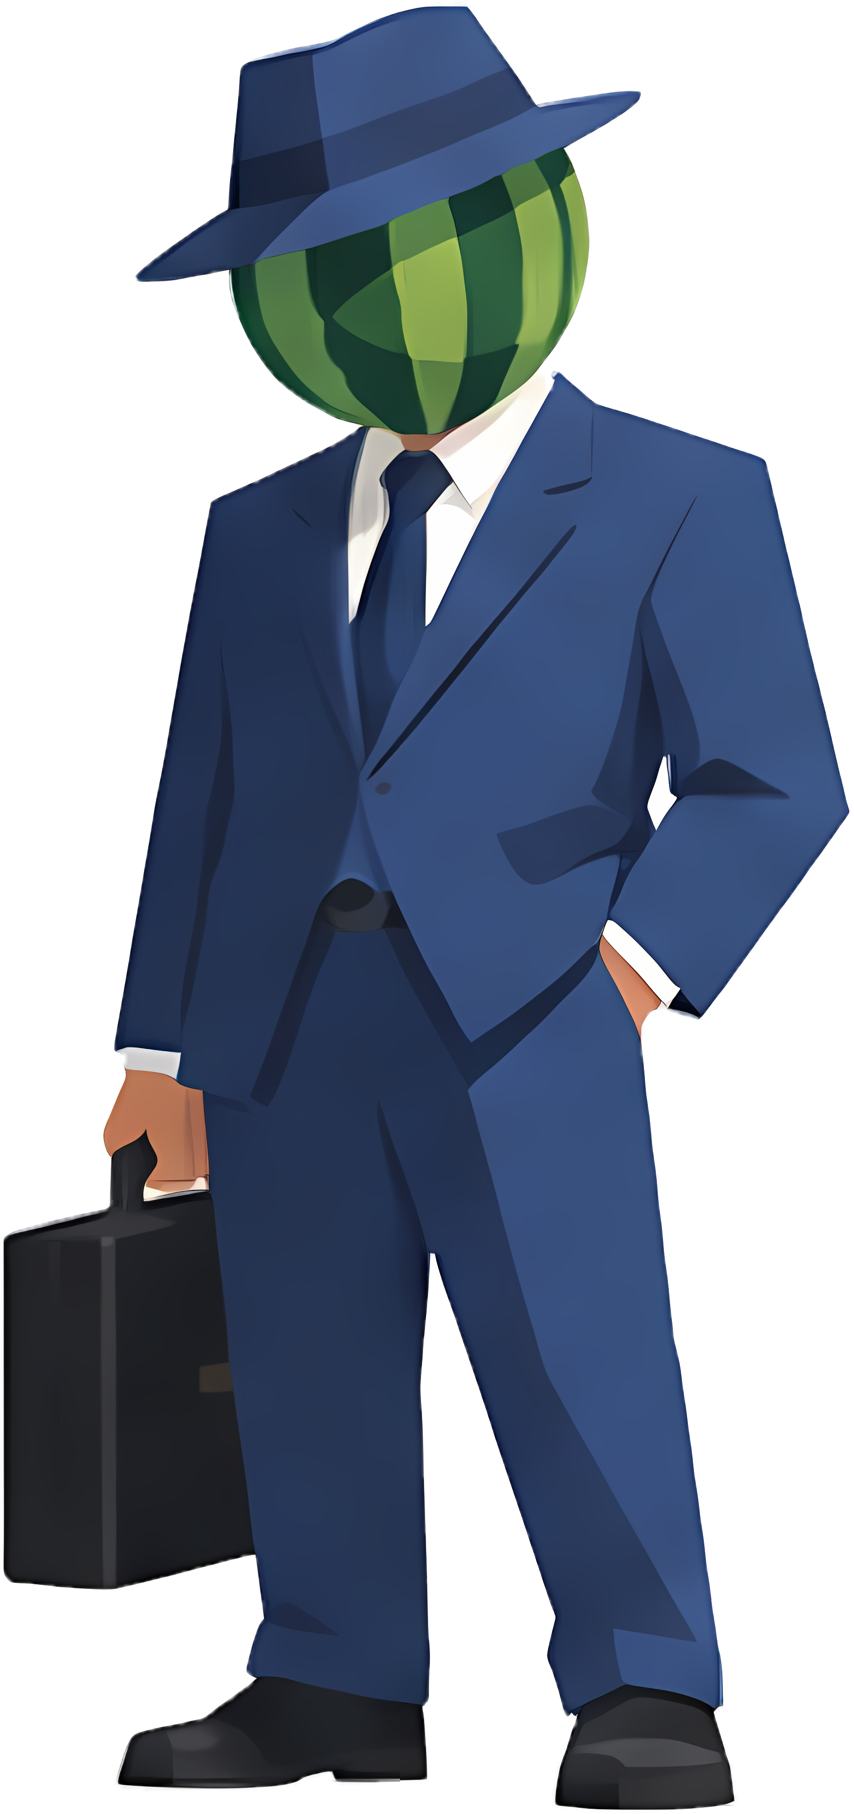
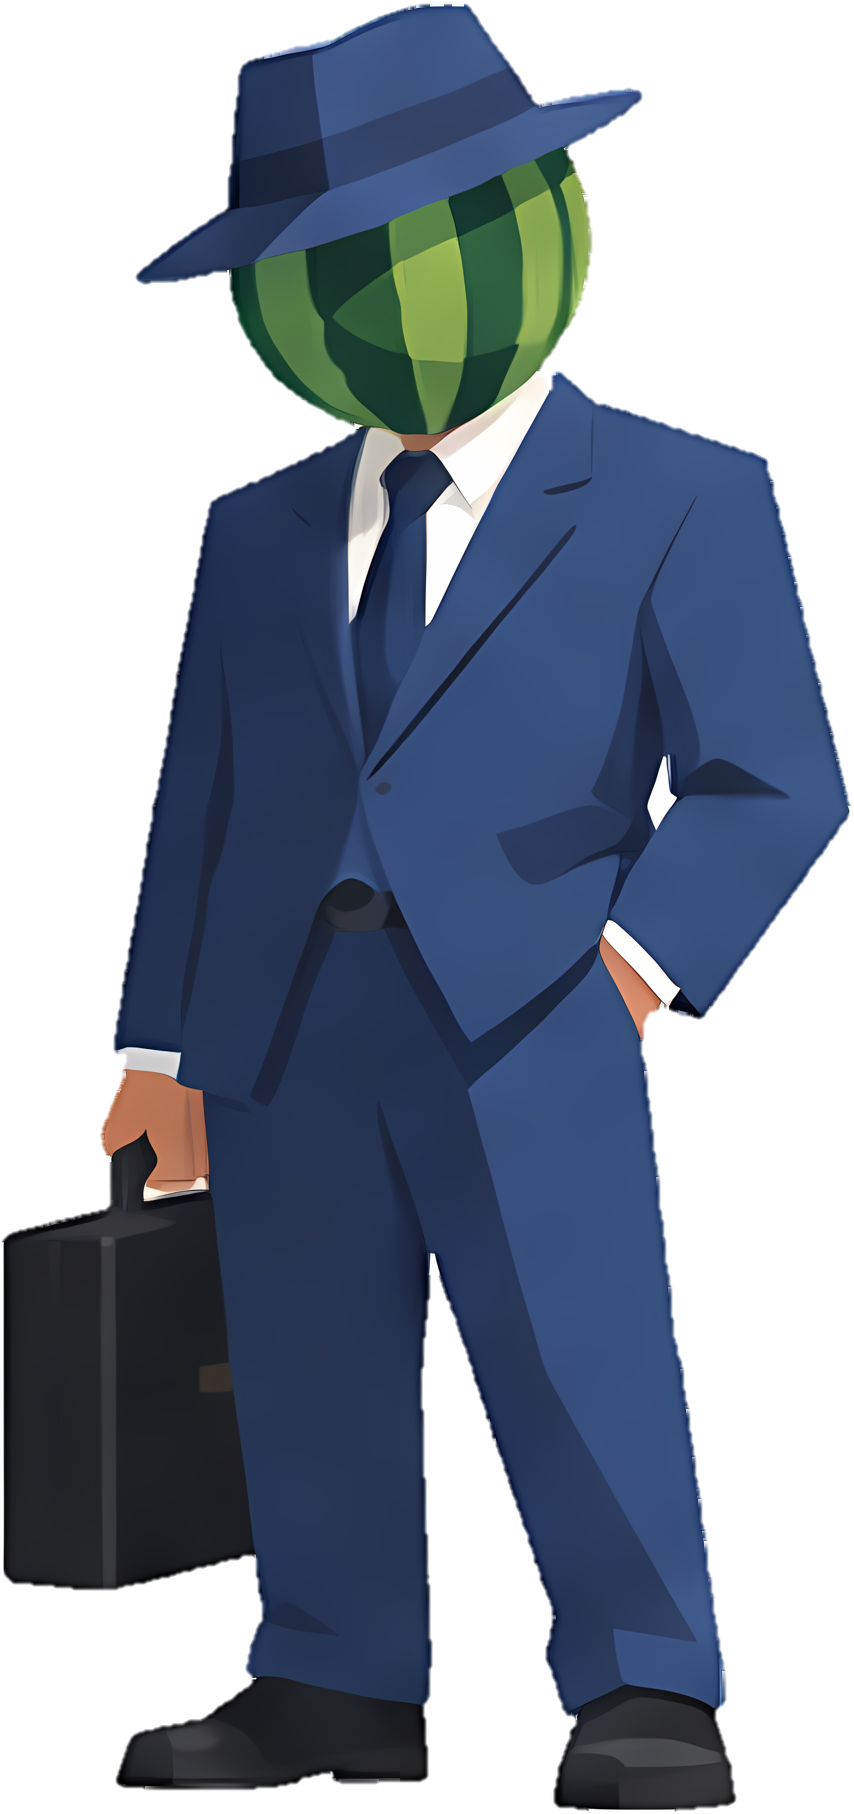
Remove the white halo from the character cutouts; outline them in family colour
The background removal had left a ~4 px white fringe that the upscale
sharpened into a visible outline. Each picture's outer 5 px now take the
colour of the nearest pixel inside the figure (keeping the soft alpha edge,
slightly tightened), so edges fade in the character's own colours; parts
that really are white stay white. On the dark bands a thin outline in the
family's colour (--glow, two 0.6 px drop-shadows) replaces it.

diff --git a/components/TypeCharacter.tsx b/components/TypeCharacter.tsx
@@ -80,7 +80,7 @@ export default function TypeCharacter({ type, eager }: { type: EaterType; eager:
             loading={eager ? "eager" : "lazy"}
             // Shown whole: no mask or crop. The real width/height keep the box at the PNG's own shape,
             // and 256px tall stays well under every file's native height.
-            className="relative h-40 w-auto object-contain sm:h-52 lg:h-64"
+            className="char-rim relative h-40 w-auto object-contain sm:h-52 lg:h-64"
           />
         </span>
         <span className="mt-3 block text-base font-semibold tracking-[-0.01em] whitespace-nowrap text-[color:var(--glow)] sm:text-lg">

diff --git a/components/TypeDetail.tsx b/components/TypeDetail.tsx
@@ -58,7 +58,7 @@ export default function TypeDetail({
             height={type.imageHeight}
             sizes={`(min-width: 640px) ${Math.round((320 * type.imageWidth) / type.imageHeight)}px, ${Math.round((288 * type.imageWidth) / type.imageHeight)}px`}
             loading="eager"
-            className="relative h-72 w-auto max-w-full object-contain sm:h-80"
+            className="char-rim relative h-72 w-auto max-w-full object-contain sm:h-80"
           />
         </div>
         <Title className="mt-6 font-display text-4xl leading-tight font-semibold text-balance sm:text-5xl">{type.name}</Title>

diff --git a/app/globals.css b/app/globals.css
@@ -397,3 +397,11 @@ body {
   .connector { animation: connector-draw 0.45s cubic-bezier(0.16, 1, 0.3, 1) backwards; }
   .chip-pop { animation: chip-pop 0.5s cubic-bezier(0.16, 1, 0.3, 1) backwards; }
 }
+
+/*
+  A thin outline in the family's colour around each character cutout (on the
+  dark bands, where --glow is set). Two half-pixel shadows read as one crisp line.
+*/
+.char-rim {
+  filter: drop-shadow(0 0 0.6px var(--glow)) drop-shadow(0 0 0.6px var(--glow));
+}
